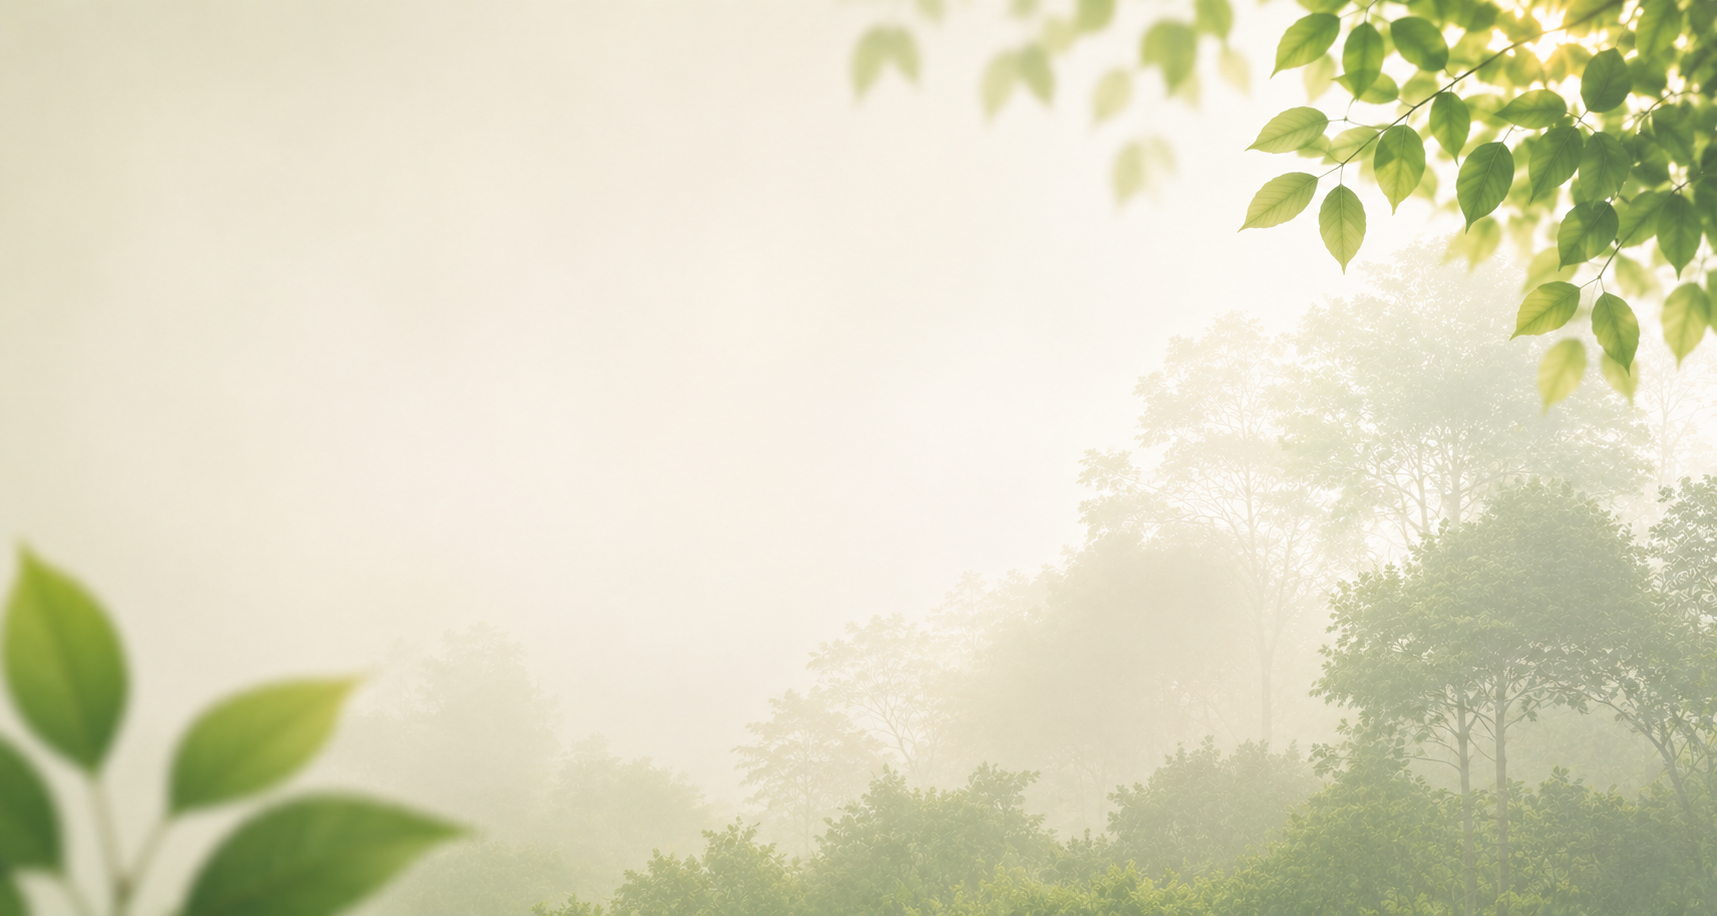
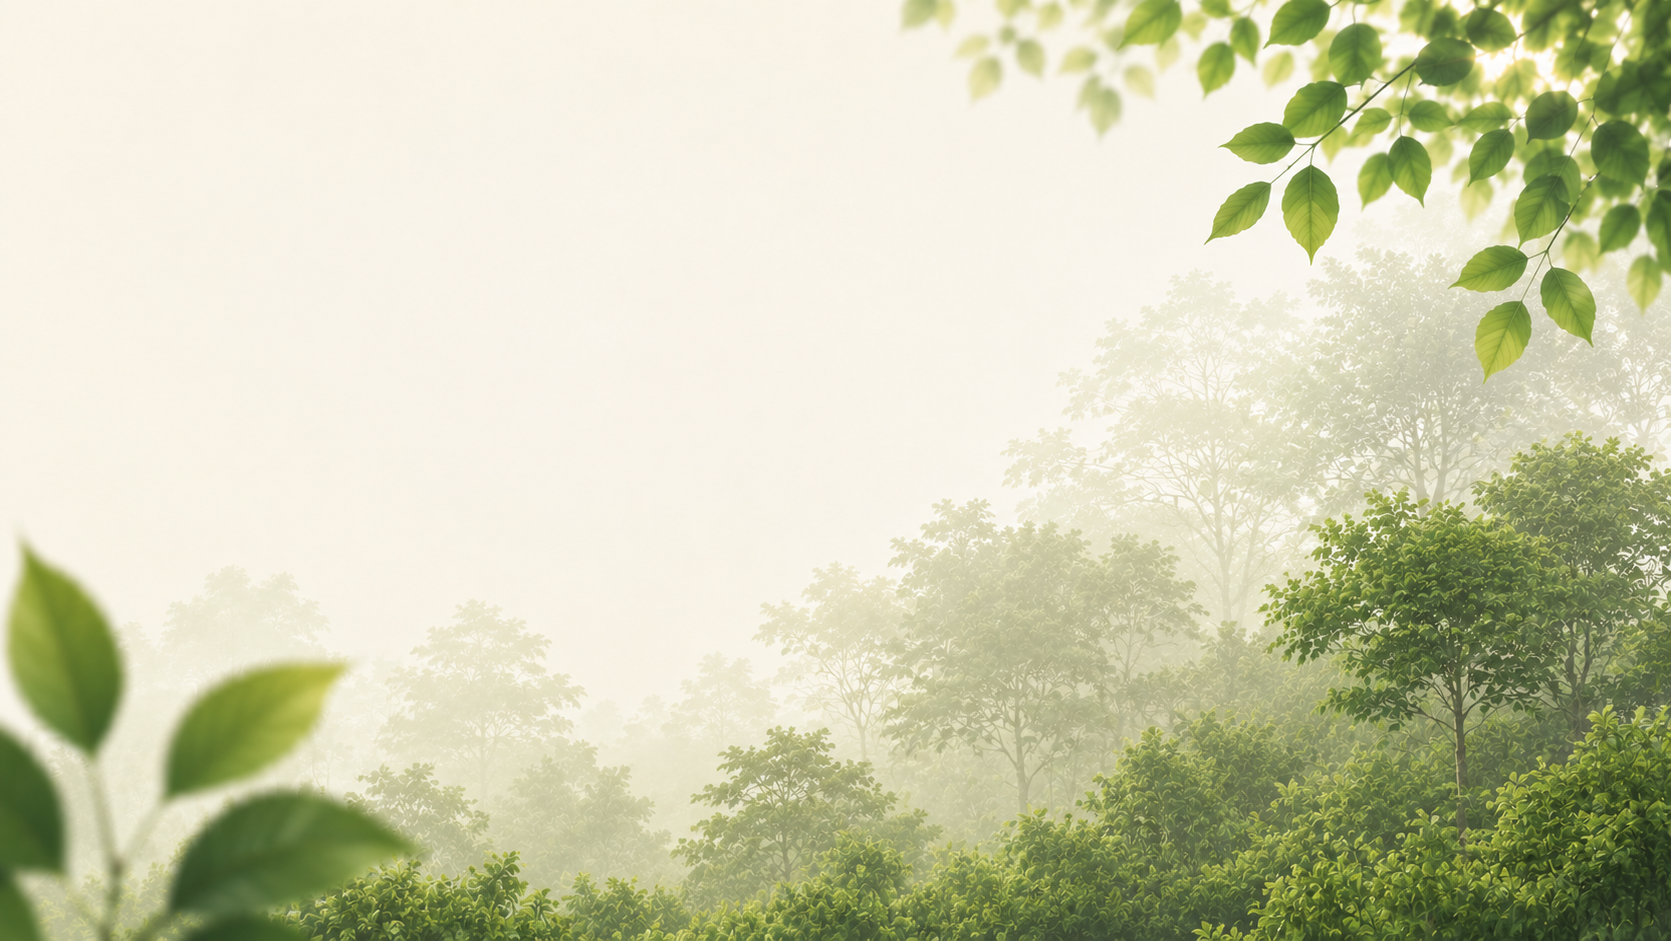
Responsiveness adjustments and details

diff --git a/pages/equipe.html b/pages/equipe.html
@@ -85,6 +85,13 @@
 
                 <h2>Colaboração</h2>
 
+                <ul class="colaboracao__lista">
+                    <li>
+                        <span class="colaboracao__nome">Universidade Anhembi Morumbi</span>
+                        <span class="colaboracao__descricao"></span>
+                    </li>
+                </ul>
+
             </div>
         </section>
 
@@ -96,16 +103,24 @@
 
                 <div class="instituicoes__container">
                     <div class="instituicoes__card">
-                        <a href="#" class="instituicoes__link">
+                        <a href="https://landing.anhembi.br/?utm_source=google&utm_medium=cpc&utm_campaign=UAM_GRAD_TODOS_PERFORMANCE_GOOGLE_SEARCH_INSTITUCIONAL_262&utm_content=PURO_TODOS_UNIFICADA_V2_262&gclsrc=aw.ds&gad_source=1&gad_campaignid=21747620104&gbraid=0AAAAADruYn8WmN7YYxPAWvJ__ikz9EOUf&gclid=Cj0KCQjwlqTRBhCBARIsANrkrxhIDBLVvWrYPEdijjzPhoO183jxqV7J3aoUugUJeQXMSXht0ox4m3MaAtFSEALw_wcB" 
+                        class="instituicoes__link" target="_blank">
                             <img src="../assets/icon/pin.png" alt="Logo..." class="instituicoes__logo">
                             <span class="instituicoes__nome">Anhembi Morumbi</span>
                         </a>
                     </div>
 
                     <div class="instituicoes__card">
-                        <a href="#" class="instituicoes__link">
+                        <a href="https://www.nafloresta.bio.br/" class="instituicoes__link" target="_blank">
                             <img src="../assets/icon/pin.png" alt="Logo..." class="instituicoes__logo">
                             <span class="instituicoes__nome">Na Floresta</span>
+                        </a>
+                    </div>
+
+                    <div class="instituicoes__card">
+                        <a href="https://www.faunare.com.br/" class="instituicoes__link" target="_blank">
+                            <img src="../assets/icon/pin.png" alt="Logo..." class="instituicoes__logo">
+                            <span class="instituicoes__nome">Faunare</span>
                         </a>
                     </div>
                 </div>

diff --git a/css/equipe.css b/css/equipe.css
@@ -1,3 +1,7 @@
+body {
+    background-color: var(--color-background);
+}
+
 /* Equipe */
 .hero-equipe {
     background-color: var(--color-surface);
@@ -31,32 +35,36 @@
 }
 
 .realizacao h2,
-.orientacao h2 {
+.orientacao h2,
+.colaboracao h2 {
     margin-bottom: 18px;
 }
 
 .realizacao__lista,
-.orientacao__lista {
+.orientacao__lista,
+.colaboracao__lista {
     list-style-type: none;
     padding: 0;
     margin: 0;
 }
 
 .realizacao__lista li,
-.orientacao__lista li {
+.orientacao__lista li,
+.colaboracao__lista li {
     display: flex;
     justify-content: space-between;
 }
 
 .realizacao__nome,
-.orientacao__nome {
-    flex: 0 0 40%; /* ocupa 40% fixo */
+.orientacao__nome,
+.colaboracao__nome {
+    flex: 0 0 40%; 
     margin-bottom: 8px;
 }
 
 .realizacao__descricao,
 .orientacao__descricao {
-    flex: 0 0 55%; /* ocupa 55% fixo */
+    flex: 0 0 55%;
     
 }
 
@@ -64,14 +72,12 @@
 .realizacao__descricao {
     flex: 0 0 45%;
     max-width: 900px;
-    /* line-height: 1.2; */
     text-align: justify;
 }
 
 .orientacao__descricao {
     flex: 0 0 45%;
     max-width: 900px;
-    /* line-height: 1.2; */
     margin-bottom: 24px;
     text-align: justify;
 }
@@ -127,11 +133,29 @@
     padding-left: 8px;
 }
 
+@media (max-width: 1024px) {
+    .realizacao__descricao,
+    .orientacao__descricao {
+        flex: 0 0 50%; 
+        
+    }
+}
 
 @media (max-width: 768px) {
     .realizacao .realizacao__lista { font-size: 14px; }
 
     .orientacao .orientacao__lista { font-size: 14px; }
+    
+    .realizacao__nome,
+    .orientacao__nome,
+    .colaboracao__nome {margin: 12px 0 2px; font-weight: bold;}
+    
+    
+    .realizacao__lista li,
+    .orientacao__lista li { display: flex; flex-direction: column; }
+
+    .instituicoes__container { display: flex; flex-direction: column; }
+    .instituicoes__card { margin-bottom: 5px; }
 }
 
 @media (max-width: 425px) {
@@ -153,7 +177,7 @@
     .instituicoes .instituicoes__card {
         gap: 2px;  
 
-        margin: 20px 16px 20px 0;
+        margin: 20px 16px 5px 0;
         padding: 10px 26px 10px 10px;
         border-radius: 30px;
     }

diff --git a/css/especies.css b/css/especies.css
@@ -1,3 +1,7 @@
+body {
+    background-color: var(--color-background);
+}
+
 /* Tema espécies */
 .specie-name {
     color: var(--color-primary);
@@ -31,11 +35,15 @@
 }
 
 .animais-menu__item:hover {
-    background-color: var(--color-accent);
+    background-color: var(--color-primary);
+    color: var(--color-surface);
+    border-radius: 10%;
 }
 
 .animais-menu__item.ativo {
-    background-color: var(--color-accent);
+    background-color: var(--color-primary);
+    color: var(--color-surface);
+    border-radius: 10%;
 }
 
 
@@ -55,6 +63,7 @@
 .conteudo__titulo {
     text-align: center;
     font-size: 18px;
+    font-weight: bold;
     color: var(--color-primary);
     margin-bottom: 18px;
 }
@@ -63,6 +72,7 @@
     display: flex;
     width: 100%;
     gap: 10px;
+    font-weight: bold;
 }
 
 .conteudo__materiais,

diff --git a/css/index.css b/css/index.css
@@ -43,7 +43,7 @@ body {
 
 /* Categorias */
 .categorias {
-    background-color: var(--color-surface);
+    background-color: var(--color-background);
     padding: 80px 0 40px;
     position: relative;
 
@@ -98,7 +98,7 @@ body {
 /* Sobre */
 .sobre {
     background-color: var(--color-background);
-    padding: 60px 20px;
+    padding: 20px 20px 60px;
 }
 
 .sobre .container {

diff --git a/css/global.css b/css/global.css
@@ -10,7 +10,8 @@
 
   /* UI (interface) */
   --color-accent: #DBE096;
-  --color-surface: #F7F4EA;
+  --color-surface: #f1ebd9;
+  /* --color-surface: #F7F4EA; */
 }
 
 :root {
